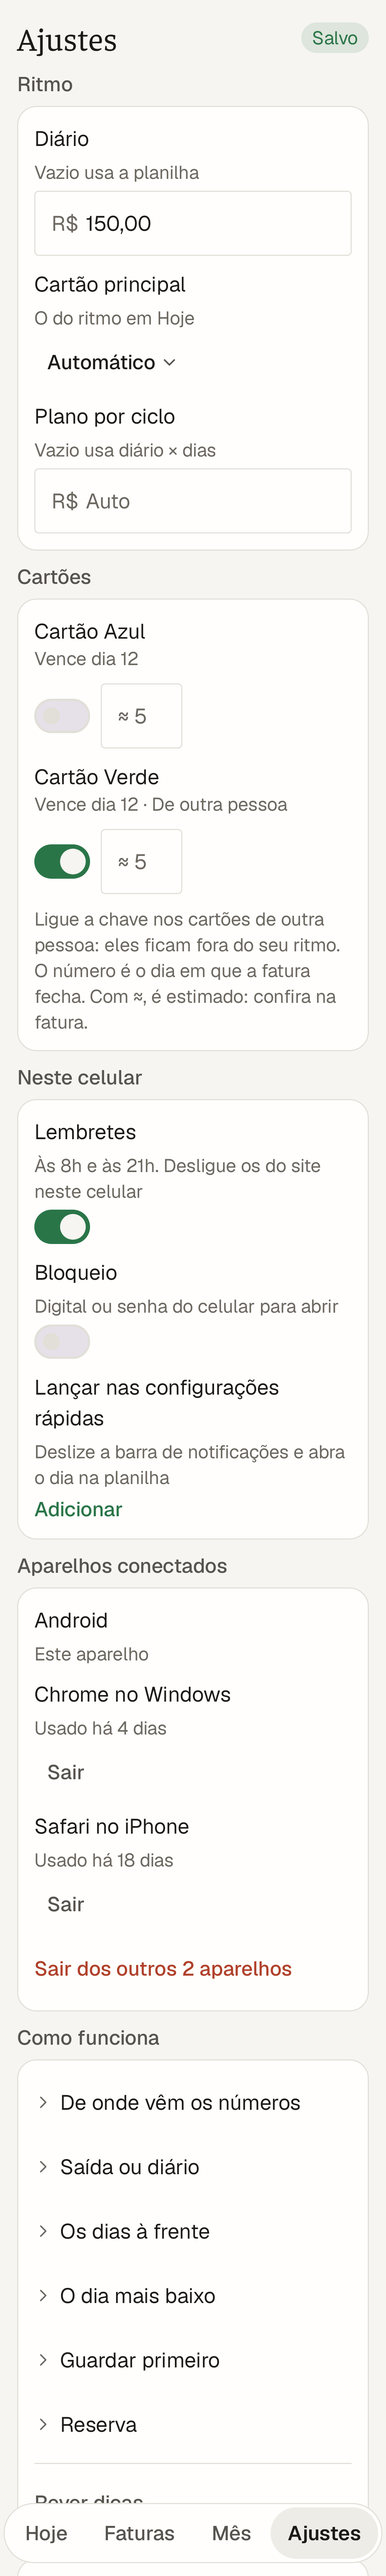
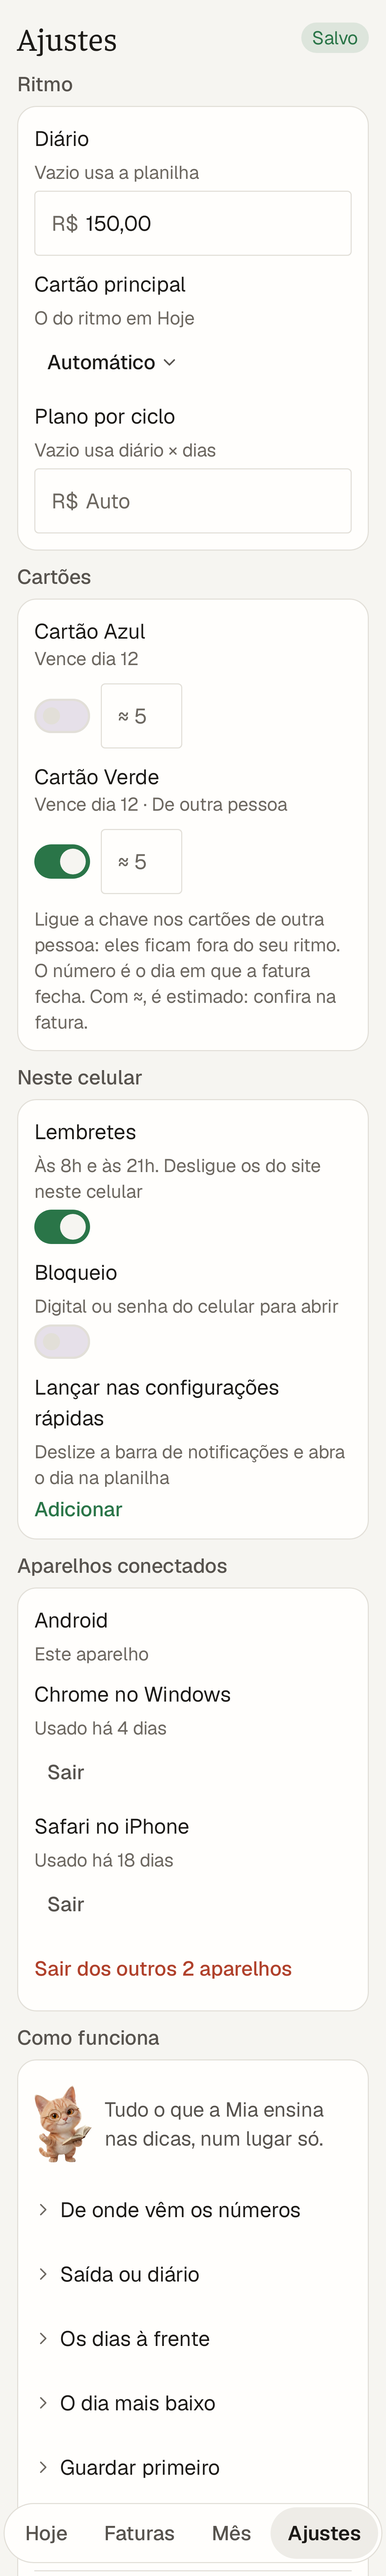
Põe a Mia com um livro na abertura de Como funciona, ligando a lista às dicas que ela dá (#34)
A Mia já assina as dicas; em Ajustes › Como funciona, onde ficam todas as ideias juntas, ela agora
abre a lista com uma pose nova (livro na pata, explicando) e uma linha: "Tudo o que a Mia ensina
nas dicas, num lugar só." Pose gerada a partir da arte "A fiel", com fundo transparente. Site e
app iguais; Android 0.25.0.

Claude-Session: https://claude.ai/code/session_01SwzAqfvDsayEzGoVq3fRTr

Changed region(s): [[0.0917, 0.8125, 0.825, 0.9688]]

diff --git a/apps/android/app/src/main/kotlin/dev/johnlaff/neko/ui/AjustesScreen.kt b/apps/android/app/src/main/kotlin/dev/johnlaff/neko/ui/AjustesScreen.kt
@@ -50,6 +50,7 @@ import dev.johnlaff.neko.data.UserSettings
 import dev.johnlaff.neko.ui.Format.fromCents
 import dev.johnlaff.neko.ui.Format.toCents
 import androidx.compose.foundation.clickable
+import androidx.compose.foundation.layout.height
 import androidx.compose.foundation.layout.heightIn
 import androidx.compose.foundation.layout.padding
 import androidx.compose.material3.HorizontalDivider
@@ -515,6 +516,11 @@ private fun ConfirmAction(action: String, question: String, detail: String, onCo
 private fun HowItWorks() {
     val l = LocalLedger.current
     val context = LocalContext.current
+    // Mia is the one who gives the tips, so the full list opens with her, book in paw.
+    Row(Modifier.padding(vertical = 8.dp), verticalAlignment = Alignment.CenterVertically, horizontalArrangement = Arrangement.spacedBy(12.dp)) {
+        Mascot(Pose.MiaTeaching, Modifier.height(72.dp))
+        Text(Learn.INTRO, color = l.muted, style = MaterialTheme.typography.bodyMedium)
+    }
     Learn.IDEAS.forEach { idea ->
         var open by rememberSaveable(idea.title) { mutableStateOf(false) }
         Column {

diff --git a/apps/neko/src/web/screens/Ajustes.tsx b/apps/neko/src/web/screens/Ajustes.tsx
@@ -5,7 +5,8 @@ import { Devices } from "../Devices.tsx";
 import { toCents } from "../format.ts";
 import { resetHints } from "../Hint.tsx";
 import { IconChevron } from "../icons.tsx";
-import { IDEAS } from "../learn.ts";
+import { IDEAS, LEARN_INTRO } from "../learn.ts";
+import { Mascot } from "../Mascot.tsx";
 import { Reminders } from "../Reminders.tsx";
 import { ErrorBlock, Skeleton, useProjection } from "../useProjection.tsx";
 
@@ -295,6 +296,11 @@ const HowItWorks = () => {
     <section className="group" aria-labelledby="g-learn">
       <h2 id="g-learn">Como funciona</h2>
       <div className="panel list learn">
+        {/* Mia is the one who gives the tips, so the full list opens with her, book in paw. */}
+        <div className="learn-head">
+          <Mascot pose="miaTeaching" height={72} />
+          <p className="learn-text">{LEARN_INTRO}</p>
+        </div>
         {IDEAS.map((idea) => (
           <details key={idea.title} className="formula">
             <summary>

diff --git a/apps/neko/src/web/Mascot.tsx b/apps/neko/src/web/Mascot.tsx
@@ -1,3 +1,4 @@
+import miaEnsinando from "./assets/mascots/mia-ensinando.webp";
 import miaPensando from "./assets/mascots/mia-pensando.webp";
 import nekoComemorando from "./assets/mascots/neko-comemorando.webp";
 import nekoDormindo from "./assets/mascots/neko-dormindo.webp";
@@ -15,6 +16,7 @@ const POSES = {
   celebrating: { src: nekoComemorando, w: 330, h: 480 },
   content: { src: nekoSatisfeito, w: 286, h: 480 },
   miaThinking: { src: miaPensando, w: 298, h: 480 },
+  miaTeaching: { src: miaEnsinando, w: 357, h: 480 },
 } as const;
 
 export type Pose = keyof typeof POSES;

diff --git a/apps/neko/src/web/learn.ts b/apps/neko/src/web/learn.ts
@@ -8,6 +8,9 @@ export const HINTS = {
   mes: "O saldo de cada dia vem da planilha. Com o gasto dos dias à frente previsto, ele fica realista.",
 } as const;
 
+/** Opens Ajustes › Como funciona, next to Mia. */
+export const LEARN_INTRO = "Tudo o que a Mia ensina nas dicas, num lugar só.";
+
 export const IDEAS: readonly { readonly title: string; readonly body: string }[] = [
   {
     title: "De onde vêm os números",

diff --git a/apps/android/app/src/main/kotlin/dev/johnlaff/neko/ui/Learn.kt b/apps/android/app/src/main/kotlin/dev/johnlaff/neko/ui/Learn.kt
@@ -65,6 +65,9 @@ object Learn {
 
     data class Idea(val title: String, val body: String)
 
+    /** Opens Ajustes › Como funciona, next to Mia. */
+    const val INTRO = "Tudo o que a Mia ensina nas dicas, num lugar só."
+
     val IDEAS = listOf(
         Idea("De onde vêm os números", "Tudo vem da sua planilha. O Neko lê e faz as contas, mas nunca escreve nela."),
         Idea(

diff --git a/apps/neko/src/web/styles.css b/apps/neko/src/web/styles.css
@@ -2036,8 +2036,16 @@ button.ghost.small {
 .panel.list.learn details.formula {
   padding: 12px 0;
 }
-.panel.list.learn details.formula:first-child {
-  padding-top: 16px;
+.learn-head {
+  display: flex;
+  align-items: center;
+  gap: 12px;
+  padding: 12px 0 4px;
+}
+.learn-text {
+  margin: 0;
+  color: var(--muted);
+  font-size: 0.875rem;
 }
 button.setting.quiet {
   width: 100%;

diff --git a/apps/android/app/src/main/kotlin/dev/johnlaff/neko/ui/Mascots.kt b/apps/android/app/src/main/kotlin/dev/johnlaff/neko/ui/Mascots.kt
@@ -34,6 +34,7 @@ enum class Pose(@param:DrawableRes val res: Int, val ratio: Float) {
     Celebrating(R.drawable.mascot_neko_comemorando, 330f / 480f),
     Content(R.drawable.mascot_neko_satisfeito, 286f / 480f),
     MiaThinking(R.drawable.mascot_mia_pensando, 298f / 480f),
+    MiaTeaching(R.drawable.mascot_mia_ensinando, 357f / 480f),
 }
 
 @Composable
